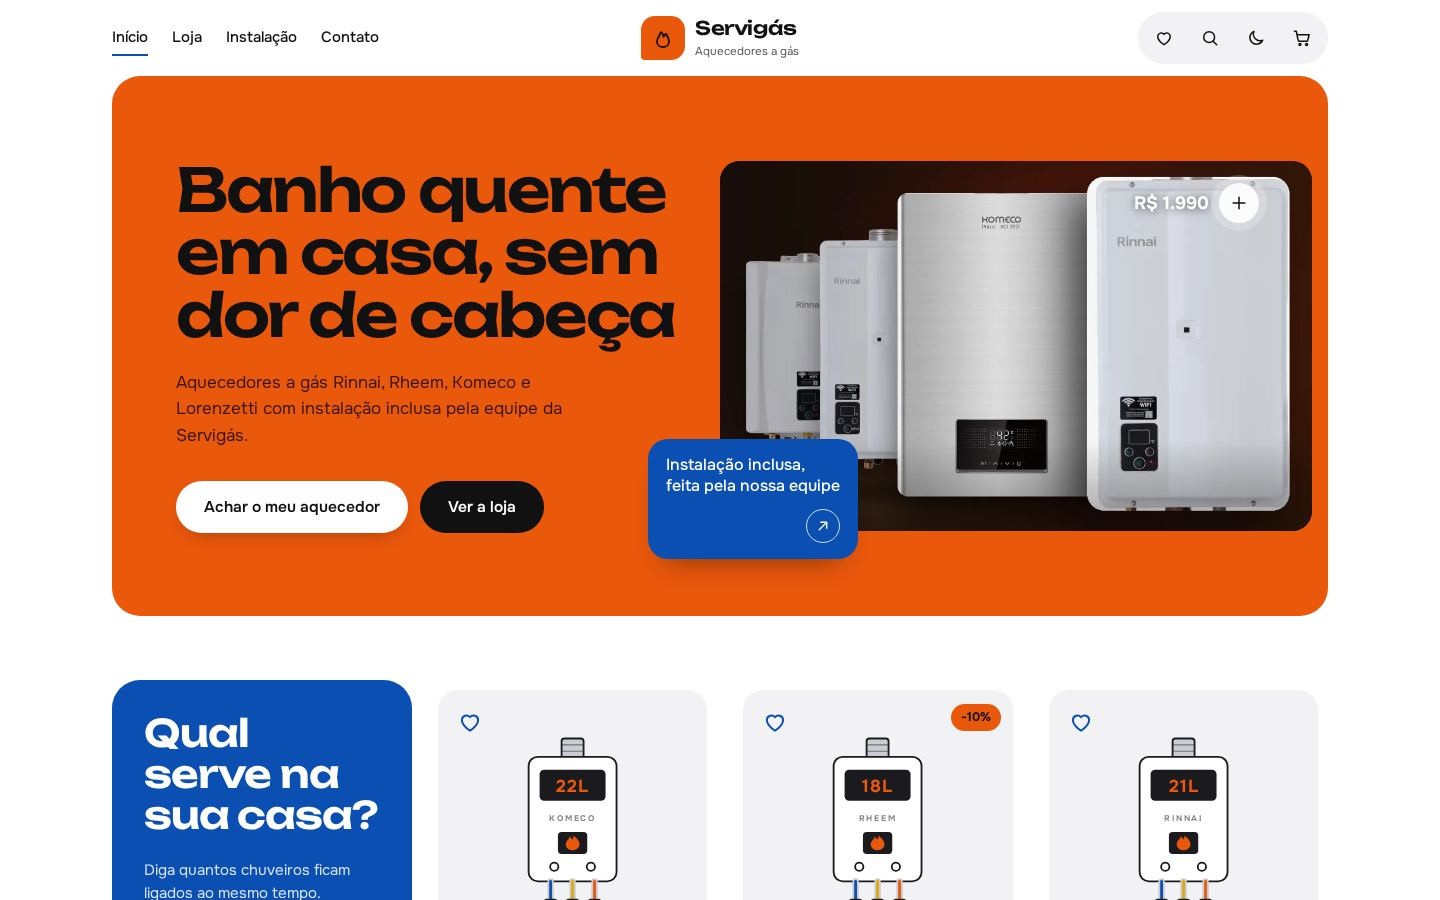
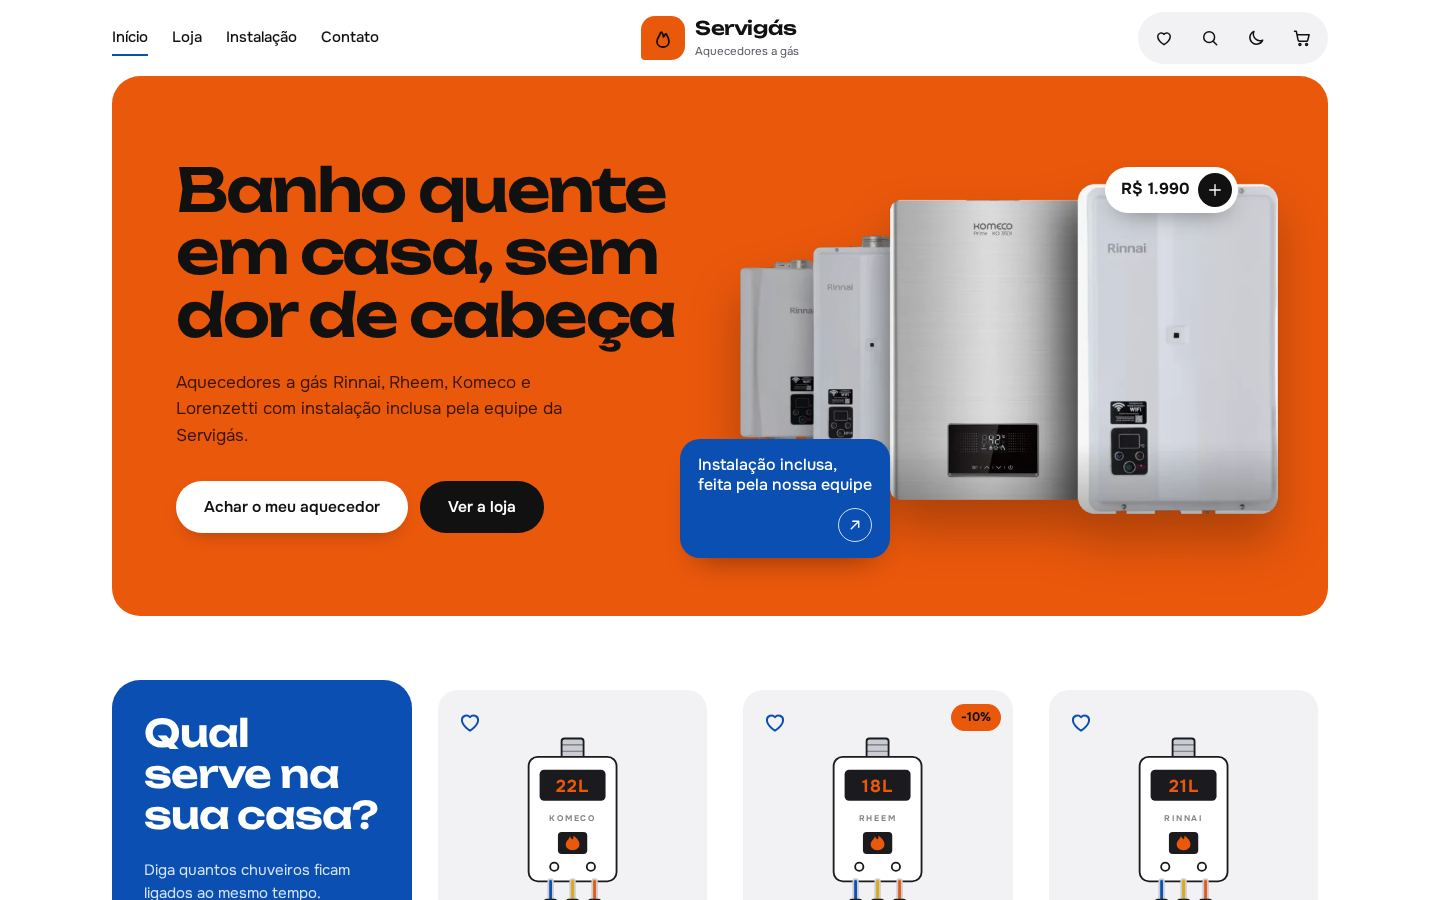
Aplica a revisão final nos 3 modelos
- Modal: marca abaixo do nome do produto
- A: faixa superior curta no celular, título de seção sem quebra,
  sem rótulo de marca acima do nome, selo de desconto sem sobrepor texto
- B: aquecedores recortados direto sobre o laranja (sem fundo escuro),
  preço em pílula branca, botão do rodapé corrigido, categorias sem
  corte no desktop, agulha do controle em azul/laranja
- C: tubos desligados em azul (frio), rodapé do cartão sem estourar no
  celular, etapas como sequência no tubo quente, textos da planta
  ocultos em telas estreitas

Claude-Session: https://claude.ai/code/session_018GfWP5FsTH2fetpq7FciNh

Changed region(s): [[0.4375, 0.1556, 0.9375, 0.6533]]

diff --git a/modelos/c-planta.html b/modelos/c-planta.html
@@ -92,8 +92,8 @@ a{color:inherit}
 .movel{fill:none;stroke:var(--tinta-2);stroke-width:1.2}
 .comodo{font-stretch:72%;font-size:11px;font-weight:600;letter-spacing:.08em;fill:var(--tinta-3);text-transform:uppercase}
 .cota{font-stretch:72%;font-size:10px;fill:var(--tinta-3)}
-.tubo{fill:none;stroke:var(--linha);stroke-width:3;stroke-linecap:round;stroke-linejoin:round;transition:stroke .35s}
-.tubo.on{stroke:var(--quente);stroke-dasharray:7 7;animation:fluxo 1s linear infinite}
+.tubo{fill:none;stroke:var(--frio);stroke-opacity:.55;stroke-width:3;stroke-linecap:round;stroke-linejoin:round;transition:stroke .35s}
+.tubo.on{stroke:var(--quente);stroke-opacity:1;stroke-dasharray:7 7;animation:fluxo 1s linear infinite}
 @keyframes fluxo{to{stroke-dashoffset:-14}}
 .tubo-frio{fill:none;stroke:var(--frio);stroke-width:2;stroke-dasharray:2 4}
 .tubo-gas{fill:none;stroke:var(--gas);stroke-width:2.5}
@@ -107,6 +107,7 @@ a{color:inherit}
 .ponto-rot{position:absolute;left:50%;top:calc(100% + 4px);translate:-50% 0;white-space:nowrap;font-stretch:72%;font-size:11.5px;font-weight:600;letter-spacing:.03em;text-transform:uppercase;background:var(--folha);padding:1px 5px;color:var(--tinta-2);pointer-events:none}
 .ponto[aria-pressed="true"] .ponto-rot{color:var(--quente-escuro)}
 @media (max-width:700px){.ponto-rot{display:none}.ponto{width:40px;height:40px}}
+@media (max-width:600px){.planta .comodo,.planta .cota{display:none}}
 
 /* carimbo (bloco de título da prancha) = resultado */
 .carimbo{display:grid;grid-template-columns:repeat(2,1fr);border-top:1px solid var(--linha-forte)}
@@ -145,16 +146,20 @@ a{color:inherit}
 .secao-cab{display:flex;flex-wrap:wrap;gap:var(--s2);align-items:end;justify-content:space-between;margin-bottom:var(--s4);padding-bottom:var(--s2);border-bottom:1px solid var(--linha-forte)}
 .secao-cab p{margin:0;color:var(--tinta-2);max-width:48ch}
 
-/* processo (sequência real) */
-.processo{display:grid;grid-template-columns:1fr;border-top:1px solid var(--linha-forte);border-left:1px solid var(--linha-forte)}
-.etapa{padding:var(--s3);border-right:1px solid var(--linha-forte);border-bottom:1px solid var(--linha-forte);background:var(--folha);display:grid;gap:10px;align-content:start}
-.etapa-num{font-stretch:72%;font-weight:600;font-size:13px;letter-spacing:.08em;color:var(--quente-escuro)}
-.etapa b{font-stretch:112%;font-weight:700;font-size:20px;line-height:1.15;letter-spacing:-.01em}
-.etapa span{color:var(--tinta-2);font-size:15px}
-.etapa .lj-ic{width:28px;height:28px;color:var(--tinta)}
-@media (min-width:700px){.processo{grid-template-columns:repeat(2,1fr)}}
-@media (min-width:1100px){.processo{grid-template-columns:repeat(4,1fr)}}
-.processo-nota{margin:var(--s2) 0 0;color:var(--tinta-2);font-size:15px;display:flex;gap:10px;align-items:center}
+/* processo: uma sequência real, desenhada ao longo do tubo quente */
+.processo{list-style:none;margin:0;padding:0;display:grid;gap:0;counter-reset:etapa;position:relative}
+.processo::before{content:"";position:absolute;left:17px;top:18px;bottom:18px;width:3px;background:var(--quente)}
+.processo li{counter-increment:etapa;position:relative;padding:0 0 var(--s4) 64px;display:grid;gap:6px}
+.processo li:last-child{padding-bottom:0}
+.processo li::before{content:counter(etapa);position:absolute;left:0;top:0;width:38px;height:38px;border:3px solid var(--quente);background:var(--papel);display:grid;place-items:center;font-stretch:112%;font-weight:800;font-size:16px;border-radius:50%}
+.processo b{font-stretch:112%;font-weight:700;font-size:21px;line-height:1.15;letter-spacing:-.01em;padding-top:5px}
+.processo span{color:var(--tinta-2);font-size:15.5px;max-width:34ch}
+@media (min-width:900px){
+  .processo{grid-template-columns:repeat(4,1fr);gap:var(--s4)}
+  .processo::before{left:19px;right:0;top:17px;bottom:auto;width:auto;height:3px}
+  .processo li{padding:60px 0 0}
+}
+.processo-nota{margin:var(--s4) 0 0;color:var(--tinta-2);font-size:15px;display:flex;gap:10px;align-items:center}
 .processo-nota .lj-ic{color:var(--quente-escuro)}
 
 /* índice de categorias */
@@ -200,13 +205,14 @@ a{color:inherit}
 .ficha div:nth-child(even){padding-left:10px}
 .ficha dt{font-stretch:72%;font-size:11px;letter-spacing:.08em;text-transform:uppercase;color:var(--tinta-3);font-weight:600}
 .ficha dd{margin:0;font-size:13.5px;font-weight:600;white-space:nowrap;overflow:hidden;text-overflow:ellipsis}
-.prancha-rodape{display:flex;align-items:end;justify-content:space-between;gap:8px;margin-top:auto}
+.prancha-rodape{display:flex;flex-wrap:wrap;align-items:end;justify-content:space-between;gap:8px;margin-top:auto}
+.prancha-preco{min-width:0}
 .prancha-preco s{display:block;font-size:12.5px;color:var(--tinta-3)}
 .prancha-preco strong{font-stretch:112%;font-weight:800;font-size:22px;letter-spacing:-.02em;line-height:1.1}
 .prancha-preco .consulta{font-weight:700;font-size:16px}
 .add{position:relative;z-index:2;width:44px;height:44px;border:1px solid var(--linha-forte);background:var(--folha);display:grid;place-items:center;flex:none;transition:background .2s,color .2s}
 .add:hover{background:var(--quente);border-color:var(--quente);color:#111}
-@media (max-width:480px){.prancha-corpo{padding:12px}.prancha h3{font-size:14px}.prancha-preco strong{font-size:18px}.ficha dd{font-size:12.5px}}
+@media (max-width:480px){.prancha-corpo{padding:12px}.prancha h3{font-size:14px}.prancha-preco strong{font-size:16px}.ficha dd{font-size:12.5px}}
 .esqueleto{aspect-ratio:3/4;border-right:1px solid var(--linha-forte);border-bottom:1px solid var(--linha-forte);background:linear-gradient(90deg,var(--folha) 0,var(--papel) 50%,var(--folha) 100%);background-size:200% 100%;animation:brilho 1.2s linear infinite}
 @keyframes brilho{to{background-position:-200% 0}}
 .vazio{grid-column:1/-1;padding:var(--s5) var(--s3);border-right:1px solid var(--linha-forte);border-bottom:1px solid var(--linha-forte);background:var(--folha);text-align:center;color:var(--tinta-2)}
@@ -317,12 +323,12 @@ a{color:inherit}
   <section class="secao" id="processo" aria-labelledby="tituloProcesso">
     <div class="envelope">
       <div class="secao-cab"><h2 id="tituloProcesso">Da planta ao banho quente</h2><p>Quem vende é quem instala. É assim que a Servigás trabalha, do orçamento à manutenção.</p></div>
-      <div class="processo">
-        <div class="etapa"><span class="etapa-num">Etapa 1</span><span data-ic="prancheta"></span><b>Visita técnica</b><span>Vamos até a sua casa, medimos o local e conferimos gás e exaustão.</span></div>
-        <div class="etapa"><span class="etapa-num">Etapa 2</span><span data-ic="gota"></span><b>Aquecedor na medida</b><span>Indicamos a vazão certa para os pontos que você usa ao mesmo tempo.</span></div>
-        <div class="etapa"><span class="etapa-num">Etapa 3</span><span data-ic="ferramenta"></span><b>Instalação inclusa</b><span>Nossa equipe instala o aparelho com duto, registro e acabamento.</span></div>
-        <div class="etapa"><span class="etapa-num">Etapa 4</span><span data-ic="escudo"></span><b>Assistência autorizada</b><span>Garantia de fábrica e manutenção com quem conhece o aparelho.</span></div>
-      </div>
+      <ol class="processo">
+        <li><b>Visita técnica</b><span>Vamos até a sua casa, medimos o local e conferimos gás e exaustão.</span></li>
+        <li><b>Aquecedor na medida</b><span>Indicamos a vazão certa para os pontos que você usa ao mesmo tempo.</span></li>
+        <li><b>Instalação inclusa</b><span>Nossa equipe instala o aparelho com duto, registro e acabamento.</span></li>
+        <li><b>Assistência autorizada</b><span>Garantia de fábrica e manutenção com quem conhece o aparelho.</span></li>
+      </ol>
       <p class="processo-nota"><span data-ic="loja"></span>Prefere buscar? Retire na loja: combine o horário pelo WhatsApp.</p>
     </div>
   </section>
@@ -351,7 +357,7 @@ a{color:inherit}
 <footer class="rodape">
   <div class="envelope">
     <dl class="rodape-grade">
-      <div><dt>Projeto e instalação</dt><dd class="marca-grande">Servigás</dd><dd style="margin-top:8px;color:var(--tinta-2)">Venda, instalação e manutenção de aquecedores a gás. Assistência técnica autorizada.</dd></div>
+      <div><dt class="visually-hidden">Loja</dt><dd class="marca-grande">Servigás</dd><dd style="margin-top:8px;color:var(--tinta-2)">Venda, instalação e manutenção de aquecedores a gás. Assistência técnica autorizada.</dd></div>
       <div><dt>Atendimento</dt><dd><a href="#" data-whats>WhatsApp (47) 9 9150-0164</a>Seg a sex, 8h às 18h<br>Sábado, 8h às 12h</dd></div>
       <div><dt>Loja</dt><dd id="rodapeCats"></dd></div>
       <div><dt>Pagamento</dt><dd>Combinado pelo WhatsApp. Pix e cartão no site em breve.</dd></div>

diff --git a/modelos/b-quente-fria.html b/modelos/b-quente-fria.html
@@ -76,7 +76,7 @@ a{color:inherit}
 @media (max-width:520px){.logo small{display:none}.cab .envelope{grid-template-columns:auto 1fr;}.logo{grid-column:1}.pilula{grid-column:2}.pilula [data-tema]{display:none}}
 
 /* ─── herói ─── */
-.heroi{background:var(--laranja);color:var(--sobre-laranja);border-radius:var(--r);display:grid;overflow:hidden;position:relative}
+.heroi{background:var(--laranja);color:var(--sobre-laranja);border-radius:var(--r);display:grid;position:relative}
 .heroi-texto{padding:var(--s5) var(--s3) var(--s4);display:flex;flex-direction:column;justify-content:center}
 .heroi h1{font-family:var(--f-titulo);font-weight:600;font-size:clamp(34px,4.4vw,60px);line-height:1.04;letter-spacing:-.04em;margin:0 0 var(--s3);text-wrap:balance}
 .heroi p{margin:0 0 var(--s4);font-size:clamp(16px,1.3vw,17px);max-width:40ch;color:var(--sobre-laranja-2)}
@@ -87,22 +87,23 @@ a{color:inherit}
 .btn-branco{background:#fff;color:#111;box-shadow:0 8px 20px -10px rgba(0,0,0,.35)}
 .btn-preto{background:#111;color:#fff}
 .btn-azul{background:var(--azul);color:#fff}
-.heroi-midia{position:relative;margin:0 var(--s2) var(--s2);align-self:end}
-.heroi-foto{position:relative;aspect-ratio:585/365;border-radius:var(--r-m);overflow:hidden;background:#141416}
-.heroi-foto img{position:absolute;width:246.2%;height:auto;max-width:none;left:-129.9%;top:-12.33%}
-.bolha-preco{position:absolute;right:9%;top:6%;display:flex;align-items:center;gap:10px;color:#fff;font-weight:700;font-size:18px;text-shadow:0 1px 8px rgba(0,0,0,.6);background:none;border:0;padding:0}
-.bolha-preco span:last-child{width:40px;height:40px;border-radius:50%;background:rgba(255,255,255,.92);color:#111;display:grid;place-items:center;box-shadow:0 0 0 8px rgba(255,255,255,.22);transition:box-shadow .3s var(--ease)}
-.bolha-preco:hover span:last-child{box-shadow:0 0 0 12px rgba(255,255,255,.28)}
-.bolha-azul{position:absolute;left:var(--s2);bottom:var(--s2);max-width:210px;background:var(--azul);color:#fff;border-radius:20px;padding:16px 18px;font-size:16px;line-height:1.3;font-weight:500;display:grid;gap:12px;text-decoration:none;box-shadow:0 18px 30px -18px rgba(0,0,0,.45)}
+.heroi-midia{position:relative;margin:0 var(--s2) var(--s4);align-self:end}
+.heroi-foto{position:relative}
+.heroi-foto img{width:100%;height:auto;filter:drop-shadow(0 28px 24px rgba(59,22,6,.35))}
+.bolha-preco{position:absolute;right:10%;top:-2%;display:flex;align-items:center;gap:8px;background:#fff;color:#111;border:0;border-radius:var(--r-p);padding:6px 6px 6px 16px;font-weight:700;font-size:16px;box-shadow:0 10px 24px -10px rgba(0,0,0,.4);transition:transform .25s var(--ease)}
+.bolha-preco:hover{transform:translateY(-2px)}
+.bolha-preco span:last-child{width:34px;height:34px;border-radius:50%;background:#111;color:#fff;display:grid;place-items:center}
+.bolha-preco .lj-ic{width:18px;height:18px}
+.bolha-azul{position:absolute;left:0;bottom:-8px;max-width:210px;background:var(--azul);color:#fff;border-radius:20px;padding:16px 18px;font-size:16px;line-height:1.3;font-weight:500;display:grid;gap:12px;text-decoration:none;box-shadow:0 18px 30px -18px rgba(0,0,0,.45)}
 .bolha-azul .seta-c{width:34px;height:34px;border-radius:50%;border:1.5px solid rgba(255,255,255,.8);display:grid;place-items:center;justify-self:end}
 .bolha-azul .lj-ic{width:18px;height:18px}
 @media (min-width:900px){
   .heroi{grid-template-columns:1fr 1fr;min-height:540px}
   .heroi-texto{padding:var(--s6) var(--s4) var(--s6) var(--s6)}
-  .heroi-midia{margin:var(--s2) var(--s2) var(--s2) 0;align-self:center}
-  .bolha-azul{left:-72px;bottom:-28px}
+  .heroi-midia{margin:var(--s6) var(--s4) var(--s5) 0;align-self:center}
+  .bolha-azul{left:-40px;bottom:-24px}
 }
-@media (max-width:899px){.bolha-azul{position:relative;left:auto;bottom:auto;margin:-40px 0 0 12px;max-width:240px}}
+@media (max-width:899px){.bolha-azul{position:relative;left:auto;bottom:auto;margin:-24px 0 0 8px;max-width:240px}}
 
 /* ─── faixa escolha: bloco azul + cartões ─── */
 .secao{padding:var(--s6) 0 0}
@@ -163,6 +164,7 @@ a{color:inherit}
 /* ─── categorias ─── */
 .cats{display:flex;gap:12px;overflow-x:auto;scrollbar-width:none;padding:4px 0}
 .cats::-webkit-scrollbar{display:none}
+@media (min-width:900px){.cats{flex-wrap:wrap;overflow:visible}}
 .cat{flex:none;display:flex;align-items:center;gap:12px;padding:6px 22px 6px 6px;border-radius:var(--r-p);border:0;background:var(--tile);font-weight:600;font-size:15px;transition:background .2s,color .2s}
 .cat span:first-child{width:52px;height:52px;border-radius:50%;background:var(--superficie);padding:8px;flex:none}
 .cat:hover{background:var(--tile-2)}
@@ -210,8 +212,8 @@ a{color:inherit}
 .rodape-cta h2 em{font-style:normal;color:var(--laranja)}
 .rodape-cols{display:grid;gap:var(--s4);grid-template-columns:repeat(2,1fr)}
 .rodape h3{font-size:14px;font-weight:600;color:#fff;margin:0 0 12px}
-.rodape p,.rodape a,.rodape button{font-size:14px;line-height:1.7;margin:0;color:#C8C8CE;text-decoration:none;background:none;border:0;padding:2px 0;display:block;text-align:left}
-.rodape a:hover,.rodape button:hover{color:#fff}
+.rodape p,.rodape-cols a,.rodape-cols button{font-size:14px;line-height:1.7;margin:0;color:#C8C8CE;text-decoration:none;background:none;border:0;padding:2px 0;display:block;text-align:left}
+.rodape-cols a:hover,.rodape-cols button:hover{color:#fff}
 .rodape-base{font-size:12.5px;color:#85858D}
 @media (min-width:900px){.rodape-cta{grid-template-columns:1fr auto;align-items:end}.rodape-cols{grid-template-columns:1.4fr 1fr 1fr 1fr}}
 
@@ -221,9 +223,10 @@ a{color:inherit}
   .heroi h1,.heroi p,.heroi-cta{animation:sobe .9s .15s var(--ease) both}
   .bolha-azul{animation:sobe .9s .45s var(--ease) both}
   .heroi-foto img{animation:zoom 1.6s var(--ease) both}
+  .bolha-preco{animation:sobe .8s .6s var(--ease) both}
   @keyframes acende{from{background:#F6B089;clip-path:inset(4% 2% 4% 2% round 28px)}to{clip-path:inset(0 round 28px)}}
   @keyframes sobe{from{opacity:0;transform:translateY(24px)}}
-  @keyframes zoom{from{scale:1.06}}
+  @keyframes zoom{from{scale:.94;opacity:0}}
 }
 </style>
 </head>
@@ -262,7 +265,7 @@ a{color:inherit}
         </div>
       </div>
       <div class="heroi-midia">
-        <div class="heroi-foto"><img src="../imagens/banner-aquecedores.webp" alt="Aquecedores a gás Rinnai e Komeco" width="2880" height="840" fetchpriority="high">
+        <div class="heroi-foto"><img src="../imagens/aquecedores-recorte.webp" alt="Aquecedores a gás Rinnai e Komeco" width="900" height="563" fetchpriority="high">
         <button class="bolha-preco" type="button" id="bolhaPreco" hidden></button></div>
         <a class="bolha-azul" href="#provas" data-ir="provas"><span>Instalação inclusa, feita pela nossa equipe</span><span class="seta-c" data-ic="diagonal"></span></a>
       </div>
@@ -384,7 +387,7 @@ a{color:inherit}
 
   /* ─── misturador (assinatura) ─── */
   const ROT = { 1: ['1', 'chuveiro'], 2: ['2', 'chuveiros'], 3: ['3+', 'chuveiros ou banheira'] };
-  const COR = { 1: '#0B4FB3', 2: '#7A6FD0', 3: '#EA580C' };
+  const COR = { 1: '#0B4FB3', 2: '#FDBA74', 3: '#EA580C' };
   function renderRecomendados() {
     const n = Number($('banhos').value);
     $('saidaBanhos').innerHTML = `${ROT[n][0]} <small>${ROT[n][1]}</small>`;

diff --git a/modelos/a-oficina.html b/modelos/a-oficina.html
@@ -64,6 +64,7 @@ a{color:inherit}
 .faixa a:hover{text-decoration:underline;text-underline-offset:3px}
 .faixa .lj-ic{width:16px;height:16px}
 .faixa-horario{display:none}
+@media (max-width:480px){.faixa-longo{display:none}}
 @media (min-width:900px){.faixa-horario{display:inline}}
 .faixa-esq{overflow:hidden;text-overflow:ellipsis;white-space:nowrap}
 
@@ -141,7 +142,8 @@ a{color:inherit}
 
 /* ─── seções ─── */
 .secao{padding:var(--s6) 0}
-.secao-cab{display:flex;align-items:end;justify-content:space-between;gap:var(--s2);margin-bottom:var(--s3)}
+.secao-cab{display:flex;flex-wrap:wrap;align-items:end;justify-content:space-between;gap:8px var(--s2);margin-bottom:var(--s3)}
+.secao-cab .link-seta{white-space:nowrap}
 .secao h2{font-family:var(--f-titulo);font-weight:800;font-size:clamp(28px,3.2vw,40px);line-height:1;letter-spacing:0;text-transform:uppercase;margin:0}
 .link-seta{display:inline-flex;align-items:center;gap:6px;font-weight:700;font-size:14px;background:none;border:0;padding:8px 0;color:var(--tinta)}
 .link-seta:hover{color:#C2410C}
@@ -181,6 +183,7 @@ a{color:inherit}
 .promo-mini .p{font-family:var(--f-titulo);font-weight:800;font-size:22px;font-variant-numeric:tabular-nums}
 .promo-mini s{font-size:13px;color:var(--tinta-3);margin-left:6px}
 .promo-mini .tag{position:absolute;top:10px;right:10px}
+.promo-mini>span:nth-child(2){padding-right:52px}
 @media (min-width:900px){
   .promo{grid-template-columns:2fr 1fr}
   .promo-principal{grid-template-columns:1fr 1.1fr}
@@ -298,7 +301,7 @@ a{color:inherit}
 
 <div class="faixa">
   <div class="envelope">
-    <span class="faixa-esq">Instalação inclusa · Assistência técnica autorizada<span class="faixa-horario"> · Seg a sex 8h–18h, sáb 8h–12h</span></span>
+    <span class="faixa-esq">Instalação inclusa<span class="faixa-longo"> · Assistência técnica autorizada</span><span class="faixa-horario"> · Seg a sex 8h–18h, sáb 8h–12h</span></span>
     <a href="#" data-whats><span data-ic="whats"></span>(47) 9 9150-0164</a>
   </div>
 </div>
@@ -359,7 +362,7 @@ a{color:inherit}
   <section class="secao" id="secaoPromo" aria-labelledby="tituloPromo" style="padding-top:0" hidden>
     <div class="envelope">
       <div class="secao-cab"><h2 id="tituloPromo">Baixou o preço</h2>
-        <button class="link-seta" type="button" data-so="promocao">Ver todas as promoções <span data-ic="seta"></span></button></div>
+        <button class="link-seta" type="button" data-so="promocao">Ver promoções <span data-ic="seta"></span></button></div>
       <div class="promo" id="promo"></div>
     </div>
   </section>
@@ -442,7 +445,6 @@ a{color:inherit}
         ${Loja.foto(p)}
       </div>
       <div class="card-corpo">
-        <span class="card-marca">${esc(p.marca)}</span>
         <h3 class="card-nome"><button type="button" data-produto="${esc(p.id)}">${esc(p.nome)}</button></h3>
         ${nb ? `<span class="card-banhos">${icone('chuveiro')}${nb === 3 ? '3 ou mais banhos' : nb === 1 ? '1 banho' : '2 banhos'}</span>` : ''}
         <div class="card-rodape">
@@ -494,7 +496,6 @@ a{color:inherit}
       <div class="promo-principal">
         <div class="promo-foto"><span class="selo">-${Loja.desconto(p)}%<small>OFF</small></span>${Loja.foto(p)}</div>
         <div class="promo-info">
-          <span class="card-marca">${esc(p.marca)}</span>
           <h3>${esc(p.nome)}</h3>
           <p>${esc(p.descricao)}</p>
           <div class="promo-precos"><strong>${brl(p.preco)}</strong><s>${brl(p.precoAntigo)}</s></div>

diff --git a/modelos/nucleo.js b/modelos/nucleo.js
@@ -385,7 +385,7 @@ const Loja = (() => {
   .lj-miniaturas button[aria-current="true"]{border-color:var(--lj-acento,#ea580c);opacity:1}
   .lj-miniaturas img{width:100%;height:100%;object-fit:contain}
   .lj-info{padding:40px 36px 32px;display:flex;flex-direction:column;gap:16px}
-  .lj-marca{font-size:12px;font-weight:700;letter-spacing:.12em;text-transform:uppercase;color:var(--lj-texto-2,#666)}
+  .lj-marca{font-size:14px;font-weight:500;color:var(--lj-texto-2,#666);margin-top:-8px}
   .lj-modal h2{font-family:var(--lj-fonte-titulo,inherit);font-size:clamp(22px,2.6vw,30px);line-height:1.12;letter-spacing:-.02em;margin:0;text-wrap:balance}
   .lj-banhos{display:flex;align-items:center;gap:10px;font-weight:600;font-size:15px;color:var(--lj-acento-escuro,var(--lj-acento,#ea580c))}
   .lj-desc{color:var(--lj-texto-2,#555);font-size:15.5px;line-height:1.6;margin:0}
@@ -527,8 +527,8 @@ const Loja = (() => {
             <div class="lj-miniaturas">${fotos.map((f, i) => `<button type="button" data-ir="${i}" aria-label="Ver foto ${i + 1}" aria-current="${i === 0}"><img src="${esc(f)}" alt=""></button>`).join('')}</div>` : ''}
         </div>
         <div class="lj-info">
-          <span class="lj-marca">${esc(p.marca)}</span>
           <h2 id="ljModalTitulo">${esc(p.nome)}</h2>
+          <span class="lj-marca">${esc(p.marca)}${p.categoria ? ` · ${esc((CATEGORIAS.find(c => c.id === p.categoria) || {}).nome || '')}` : ''}</span>
           ${nb ? `<p class="lj-banhos">${ICONES.chuveiro}<span>Indicado para ${textoBanhos(nb)} · ${v} L/min</span></p>` : ''}
           <p class="lj-desc">${esc(p.descricao)}</p>
           ${(p.specs || []).length ? `<ul class="lj-specs">${p.specs.map(linhaSpec).join('')}</ul>` : ''}

diff --git a/.impeccable/surfaces/modelos-b-quente-fria-html.md b/.impeccable/surfaces/modelos-b-quente-fria-html.md
@@ -9,8 +9,8 @@ Scope: modelo B da comparação de redesign (home + catálogo completo). Mode: P
 
 ## Direction contract
 THESIS: o misturador do chuveiro — quente e frio como sistema de cor; recusa o catálogo de ferragens cinza.
-OWN-WORLD: laranja saturado #F26A1B como bloco (Drenched no hero), azul-água #0B4FB3 como segundo bloco, branco, tiles #F2F2F4, preto #111 nos botões redondos; raio 28px; Unbounded 600 + Onest.
+OWN-WORLD: laranja da marca #EA580C como bloco (Drenched no hero), azul-água #0B4FB3 como segundo bloco, branco, tiles #F2F2F4, preto #111 nos botões redondos; raio 28px; Unbounded 600 + Onest.
 STORY: sente que água quente em casa é simples, arrasta do frio ao quente dizendo o tamanho da casa, vê os aquecedores que servem, favorita, adiciona e fecha no WhatsApp.
-FIRST VIEWPORT: header em pílula com logo central; bloco laranja arredondado com título grande, dois botões (Comprar / Ver catálogo), aquecedor com bolha de preço e bolha azul "Instalação inclusa"; abaixo, bloco azul "Mais procurados" + cartões.
+FIRST VIEWPORT: header em pílula com logo central; bloco laranja arredondado com título grande, dois botões (Comprar / Ver catálogo), aquecedores recortados direto sobre o laranja, sem fundo, com pílula branca de preço e bolha azul "Instalação inclusa"; abaixo, bloco azul "Mais procurados" + cartões.
 FORM: brief-pinned (referência 2), fora do sorteio; seed 6e73b30d.
 FINISH: unreviewed and undocumented is unfinished; this build ends with the finish review, the verdict, DESIGN.md, and every shipping raster carrying its provenance
